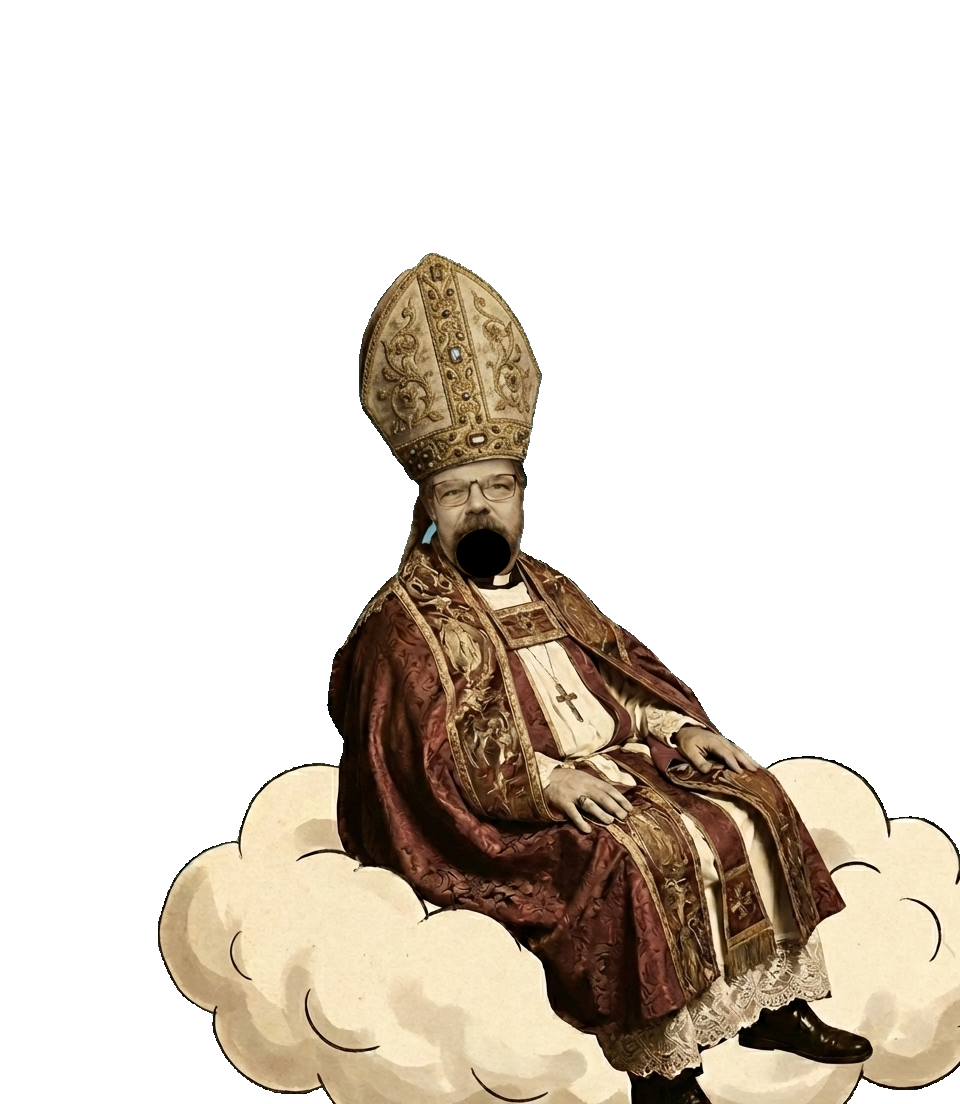
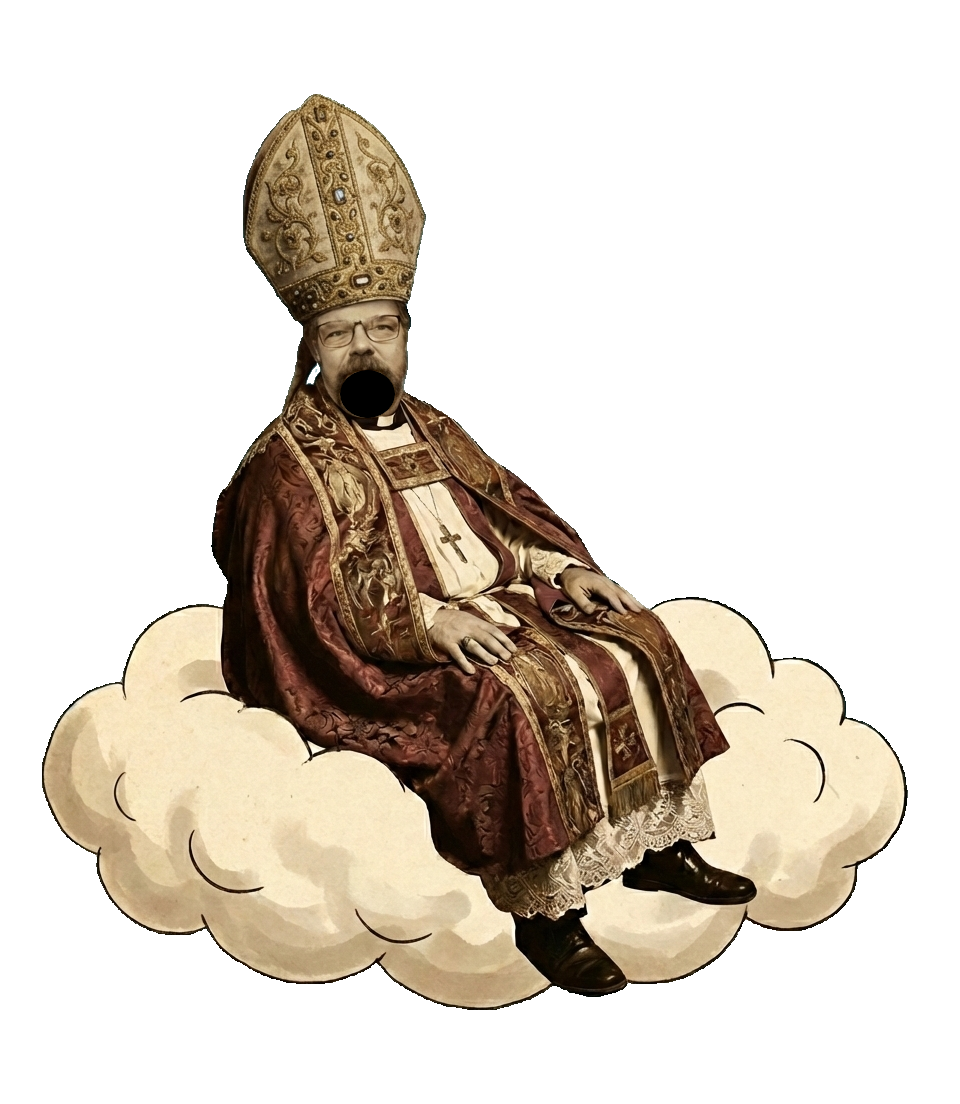
resizs bishop jaw

diff --git a/vox/style.css b/vox/style.css
@@ -27,12 +27,12 @@ body {
     z-index: 5;
 }
 
-/* 3. THE CLOUD BISHOP (Automaton) */
+/* --- THE AUTOMATON BISHOP (Perfect Stack Logic) --- */
 #bishop-container {
     position: absolute;
     top: 5vh;   
     right: 5vw; 
-    width: 280px; 
+    width: 350px; /* Adjust this to make the Bishop larger or smaller on screen */
     z-index: 100;
     pointer-events: none;
     animation: bob 4s infinite ease-in-out, sway 8s infinite ease-in-out;
@@ -47,12 +47,25 @@ body {
 
 #bishop-jaw {
     position: absolute;
-    /* ADJUST THESE manually to 'pin' your GIMP-cropped jaw to the face */
-    top: 62%;  
-    left: 31%; 
-    width: 38%; 
-    transform-origin: top center; 
+    top: 0;   /* Matches the top of the body canvas */
+    left: 0;  /* Matches the left of the body canvas */
+    width: 100%; /* Spans the full width of the body canvas */
+    
+    /* THE HINGE: Adjust these % to find the point where his mouth rotates */
+    /* On a 960x1104 canvas, the mouth is likely around 60-70% down */
+    transform-origin: 50% 65%; 
+    
     z-index: 101;
+}
+
+/* The talking flap triggered by the typewriter script */
+.talking #bishop-jaw {
+    animation: flap 0.12s infinite alternate ease-in-out;
+}
+
+@keyframes flap {
+    0% { transform: rotate(0deg); }
+    100% { transform: rotate(8deg) translateY(2px); }
 }
 
 /* Animations */
